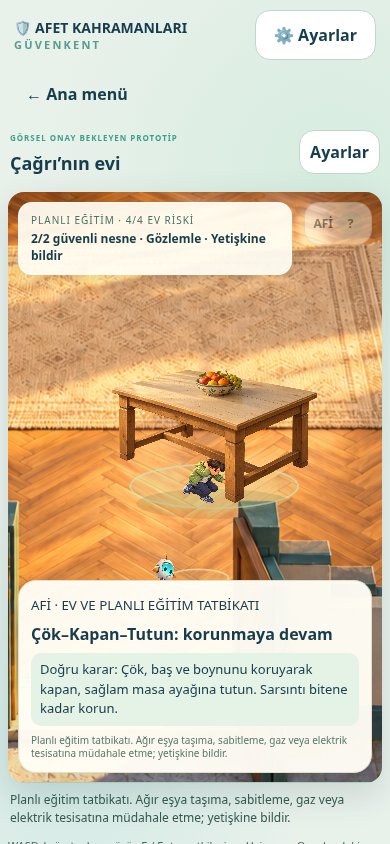
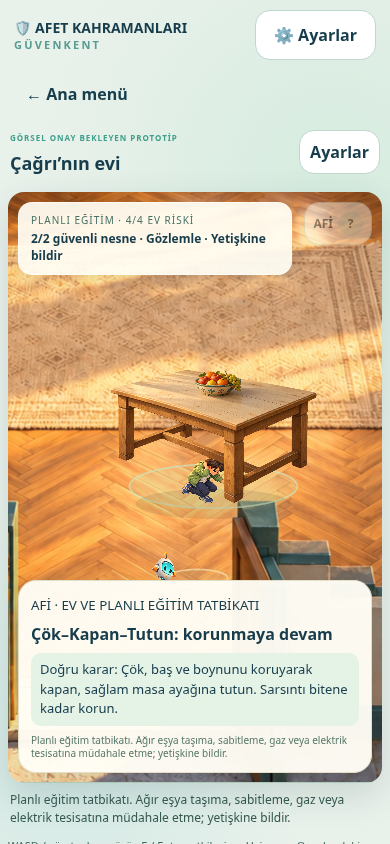
fix: clear home entrance and refine living room details

diff --git a/src/game/homeFlow.ts b/src/game/homeFlow.ts
@@ -79,19 +79,19 @@ export const HOME_ITEMS: readonly HomeItem[] = [
   },
   {
     id: "homeSofa",
-    name: "Geçişi daraltan kanepe",
+    name: "Duvar kenarındaki kanepe",
     asset: "sofa",
     risk: true,
-    detail: "Kanepe kapıya uzanan geçişin sol bölümünü daraltıyor.",
-    why: "Dar geçiş kontrollü tahliyeyi zorlaştırır.",
+    detail: "Kanepe kapıdan uzakta, sol duvar kenarında. Yanındaki kısa geçiş yine de dar kalıyor.",
+    why: "Kapı açık olsa bile dar yan geçiş takılmayı ve güvenli ilerlemeyi zorlaştırabilir.",
     action:
-      "Bir yetişkine bildir; kanepeyi güvenli yerleşime aldırıp geçişi açık tut.",
+      "Bir yetişkine bildir; kanepeyi duvar boyunca biraz geriye aldırıp yan geçişi açık tut.",
     wrong: "Ağır kanepeyi tek başıma sürüklerim.",
-    fix: "Canlandırma: yetişkin kanepeyi duvar kenarına aldı; çıkış yolu açıldı.",
-    x: 900,
-    y: 965,
+    fix: "Canlandırma: yetişkin kanepeyi sol duvar boyunca geriye aldı; yan geçiş genişledi. Kapı önü açık.",
+    x: 570,
+    y: 850,
     width: 270,
-    approach: { x: 850, y: 880 },
+    approach: { x: 800, y: 860 },
   },
   {
     id: "homeTable",

diff --git a/tests/homeFlow.test.ts b/tests/homeFlow.test.ts
@@ -6,6 +6,7 @@ import {
   homeObstacles,
   HOME_WALK,
 } from "../src/game/homeLayout.ts";
+import { blocked } from "../src/game/townHallData.ts";
 import { findWalkPath } from "../src/game/navigation.ts";
 function ready() {
   const h = new HomeFlow();
@@ -82,4 +83,12 @@ test("all home interactions remain reachable before and after adult furniture mo
         findWalkPath({ x: 1040, y: 1080 }, point, HOME_WALK, homeObstacles(h)),
         point.id,
       );
+});
+
+test("the full entrance aisle is clear before and after the adult sofa adjustment", () => {
+  for (const home of [new HomeFlow(), ready()]) {
+    for (let x = 850; x <= 1120; x += 15)
+      for (let y = 870; y <= 1100; y += 10)
+        assert.equal(blocked(x, y, homeObstacles(home)), false, `${x},${y}`);
+  }
 });

diff --git a/src/game/homeLayout.ts b/src/game/homeLayout.ts
@@ -23,7 +23,7 @@ export function homeObstacles(home: HomeFlow): readonly Obstacle[] {
     { left: 1160, right: 1621, top: 915, bottom: 1101 },
     ...(home.findings.homeSofa === "fixed"
       ? [{ left: 440, right: 700, top: 750, bottom: 815 }]
-      : [{ left: 790, right: 1000, top: 900, bottom: 980 }]),
+      : [{ left: 440, right: 700, top: 800, bottom: 865 }]),
   ];
 }
 export function homeHotspots(home: HomeFlow): Hotspot[] {
@@ -53,5 +53,6 @@ export const HOME_ASSETS = [
   ["home-room", "room"],
   ["home-courtyard", "courtyard"],
   ["home-protect", "protect"],
+  ["home-plant-books", "plant-books"],
   ...HOME_ITEMS.map((o) => ["home-" + o.asset, o.asset]),
 ];

diff --git a/src/game/HomeScene.ts b/src/game/HomeScene.ts
@@ -69,6 +69,8 @@ export class HomeScene extends AdventureScene {
   protected drawWorld() {
     this.shadows.clear();
     this.picture("home-room", 960, 1280, 1920, 1280)?.setDepth(0);
+    // Low decorative objects stay on the built-in cabinet, outside all walkways.
+    this.prop("home-plant-books", 570, 315, 105);
     this.add.ellipse(1480, 620, 165, 30, 0x4b3c28, 0.14).setDepth(624.9);
     this.prop("home-sofa", 1480, 625, 230);
     HOME_ITEMS.forEach((o) => {

diff --git a/docs/FAZ_04_TESLIM_RAPORU.md b/docs/FAZ_04_TESLIM_RAPORU.md
@@ -36,13 +36,14 @@ Yeni ev ve buluşma alanı görselleri kullanıcı görsel onayını bekler.
 | Yüksek kitaplık | Devrilebilir; yetişkine bildir, uygun yöntemle sabitlemeyi yetkili kişi yapsın |
 | Oturma alanı üstündeki ağır çerçeve | Düşebilir; güvenli konumu ve bağlantıyı yetişkin sağlasın |
 | Dolap üstündeki ağır sandık/kap | Yüksekten düşebilir; yetişkin alçak depolamaya alsın |
-| Çıkış geçişini daraltan kanepe | Tahliyeyi zorlaştırır; yetişkin yerleşimi düzenlesin |
+| Sol duvar kenarındaki kanepe | Kapı önü açıktır; dar yan geçişi yetişkin duvar boyunca küçük bir yerleşim düzeltmesiyle genişletsin |
 | Sağlam masa | Bu örnek sahnede uygun korunma alanı; kesin güvenlik garantisi değildir |
 | Ulaşılabilir afet çantası | Aileyle kişiye/koşullara uygun hazırlanır ve kontrol edilir; almak için tehlikeye geri dönülmez |
 
 Taşınan eşyaların sprite konumu, ölçeği, seçim alanı ve yaklaşım noktası birlikte
-güncellenir. Kanepe çarpışması yetişkin çözümünde yeni konuma taşınır; kapının
-sağ aralığı ilk durumda da kullanılabilir. Diğer kanepe sabit oturma dekorudur.
+güncellenir. Kanepe ve çarpışması başlangıçtan itibaren sol duvar kenarındadır. Yetişkin
+çözümünde duvar boyunca biraz geriye alınır; yan geçiş genişler. Kapıya uzanan
+ana koridor her iki durumda da açıktır. Diğer kanepe sabit oturma dekorudur.
 
 ## Mimari ve koruma
 
@@ -81,7 +82,7 @@ GUVENKENT_TEST_URL=http://127.0.0.1:4173 python -u tests/home_smoke.py
 
 - `npm run build`: başarılı. Phaser paketinin 500 kB üzerindeki mevcut Vite
   boyut uyarısı sürer; derleme hatası yoktur.
-- Birim testleri: **25/25 başarılı**. Ev durum makinesi, erken tahliye engeli,
+- Birim testleri: **26/26 başarılı**. Ev durum makinesi, erken tahliye engeli,
   yanlış kararlar, tekrarda tek tamamlanma ve mobilya taşındıktan sonra gerçek
   yaklaşım noktalarına yol bulunması kapsanır.
 - Ev: masaüstü klavye/fare ve mobil dokunmatik akış başarılı. Okul tamamlanmadan
@@ -102,7 +103,7 @@ GUVENKENT_TEST_URL=http://127.0.0.1:4173 python -u tests/home_smoke.py
 - On yeni PNG açılarak doğrulandı. Mobil korunma kartı, masa altındaki Çağrı'yı
   kapatmaması için yalnızca tekrarlanan metin bölümü daraltılarak düzenlendi.
 
-Son derleme üzerinde sıralı mobil tekrar **başarılı**: ev tam akışı, sınıf tam
+İlk teslim derlemesinde sıralı mobil regresyon **başarılı**: ev tam akışı, sınıf tam
 akışı, eksik sınıf görselinde oynanabilirlik ve belediye giriş/başkan/berat/plan/
 defter/çıkış akışı. Belediyede beş giriş–çıkış döngüsü de geçti; tarayıcı hata ve
 yatay taşma kontrollerinde hata yoktur.
@@ -125,7 +126,7 @@ fiziksel telefon/tablet denenmedi.
 
 ## Sanat varlıkları, eksikler ve yayın öncesi doğrulama
 
-Dokuz yerel PNG ve bir yumuşak tatbikat sesi eklendi. PNG'ler OpenAI görsel üretim
+On yerel PNG ve bir yumuşak tatbikat sesi eklendi. PNG'ler OpenAI görsel üretim
 aracıyla hazırlandı; önceki karakter tasarımı korunarak ayrı bir korunma pozu
 üretildi. Ayrıntılı kaynak listesi: [ev varlıkları](../public/assets/home/README.md).
 Sahne düz geometrik kutularla nihai oyun olarak sunulmaz; ayrı mobilya ve obje
@@ -140,3 +141,32 @@ Bu, korkutmayan ve yeniden denenebilir planlı eğitim senaryosudur. İçeriğin
 **yayın öncesinde yerel resmî afet yönergeleri ve yetkili eğitimcilerle doğrulanması
 beklenir**; bu prototip resmî afet eğitimi onayı aldığı iddiasında değildir.
 İkinci gün bölgeleri, sınav ve öğretmen paneli geliştirilmedi. Görsel onay beklenir.
+
+## Görsel onay sonrası ev düzenlemesi
+
+- Kapı önündeki kanepe sol duvar kenarına taşındı. İnceleme metni, sprite,
+  yaklaşım noktası ve çarpışması birlikte güncellendi; kapı engeli varmış gibi
+  geri bildirim verilmez. Dört risk/iki güvenli öğe akışı değişmedi.
+- Dolap üstüne alçak saksı ve iki çocuk kitabından oluşan küçük dekor eklendi;
+  yürüyüş/etkileşim alanı kaplamaz. Oda, ışık, diğer sahneler ve karakter
+  kaynak görselleri korunur.
+- Mevcut baş-boyun koruyan, çökmüş ve masa ayağına uzanan tek kare Çağrı pozu
+  korunur; sarsıntı bitene kadar gösterilir. Tam animasyon atlası hâlâ eksiktir.
+- Korkutucu ses, siren, panik veya tehlikeli davranış animasyonu eklenmedi.
+  Mevcut kısa hafif kamera etkisi azaltılmış harekette, yumuşak ton sessiz
+  modda kapalıdır.
+- Yeni koridor testi başlangıçta ve yetişkin çözümü sonrasında kapı yolunun
+  tamamının çarpışmasız olduğunu doğrular.
+
+Son düzenlemenin doğrulaması: `npm run build` başarılı (mevcut Vite paket boyutu
+uyarısı devam ediyor); birim testleri **26/26** geçti. Son derleme üzerinde
+`GUVENKENT_TEST_URL=http://127.0.0.1:4173 python -u tests/home_smoke.py`
+masaüstü ve dokunmatik emülasyonunda bütünüyle başarılıdır. Altı nesne gerçek
+sprite üzerinden açıldı, taşınan nesneler yeniden incelendi; yanlış/doğru kararlar,
+masa altındaki korunma pozu, sarsıntı sonrası yürüyerek tahliye ve buluşma alanı
+geçildi. Her iki görünümde beş giriş–çıkış döngüsü ve sessiz/azaltılmış hareketli
+tekrar başarılı; tamamlanma sayısı 1 kaldı. Tarayıcı hatası veya yatay taşma yok.
+On ekran görüntüsü son yerleşimle yeniden oluşturulup PNG olarak doğrulandı.
+Masaüstü klavye/fare, mobil Chromium dokunmatik emülasyonudur; fiziksel cihazda
+denenmedi. Önceki sahne/motor/karakter kaynakları bu
+revizyonda değiştirilmedi. `main` birleştirilmedi; test ve görsel onay beklenir.

diff --git a/public/assets/home/README.md b/public/assets/home/README.md
@@ -13,6 +13,8 @@ okul ve Çağrı/AFİ kaynak PNG'leri değiştirilmedi.
 - `protect.png`: Çağrı'nın mevcut tasarımı referans alınarak üretilen tek kare
   çökmüş korunma pozu; yönlü yürüyüş atlası veya tam animasyon değildir.
 - `courtyard.png`: belirlenmiş açık buluşma alanı.
+- `plant-books.png`: alçak saksı ve iki çocuk kitabı; dolap üzerinde küçük
+  dekor olarak kullanılır, yürüyüşü ve nesne seçimlerini kapatmaz.
 - `drill-soft.wav`: Python standart `wave` modülüyle oluşturulan 95 Hz yumuşak
   ton; kaynak tepe genliği yaklaşık %5,2, oynatma seviyesi %12. Yalnızca efekt
   ayarı açıkken tatbikatta döngüye girer; sessiz/pause/çıkışta durur. Konuşma,
